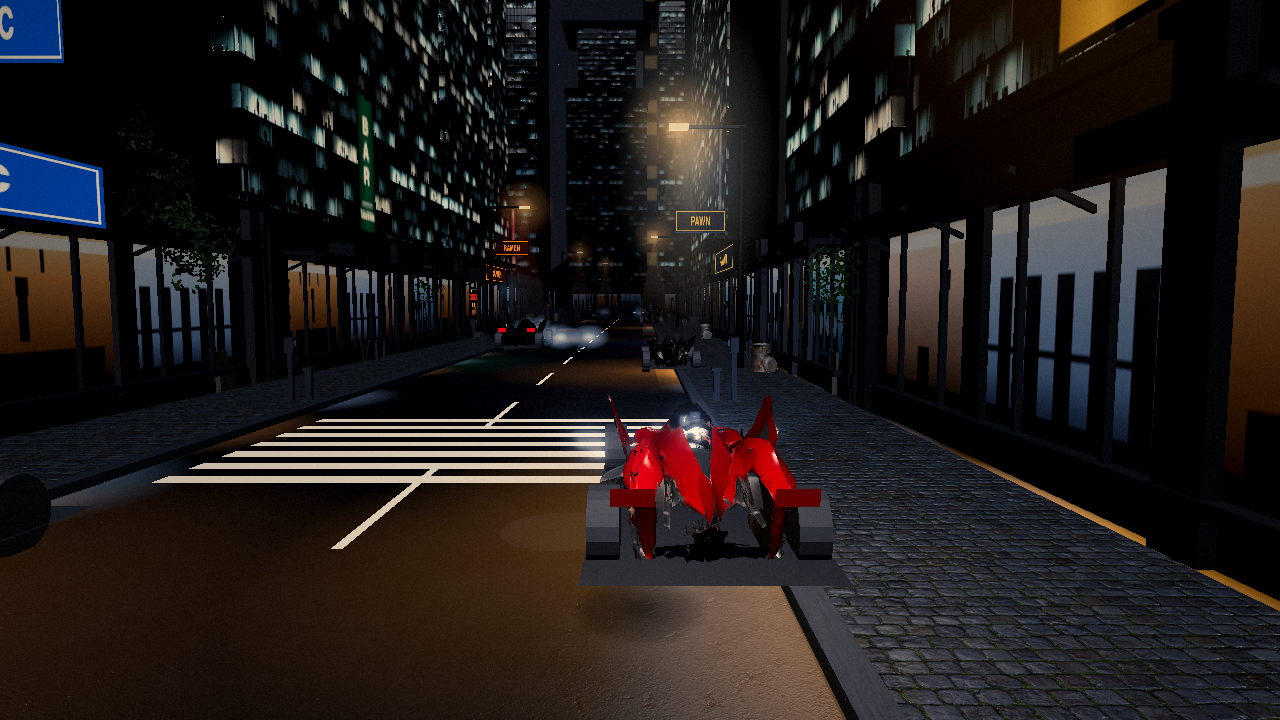
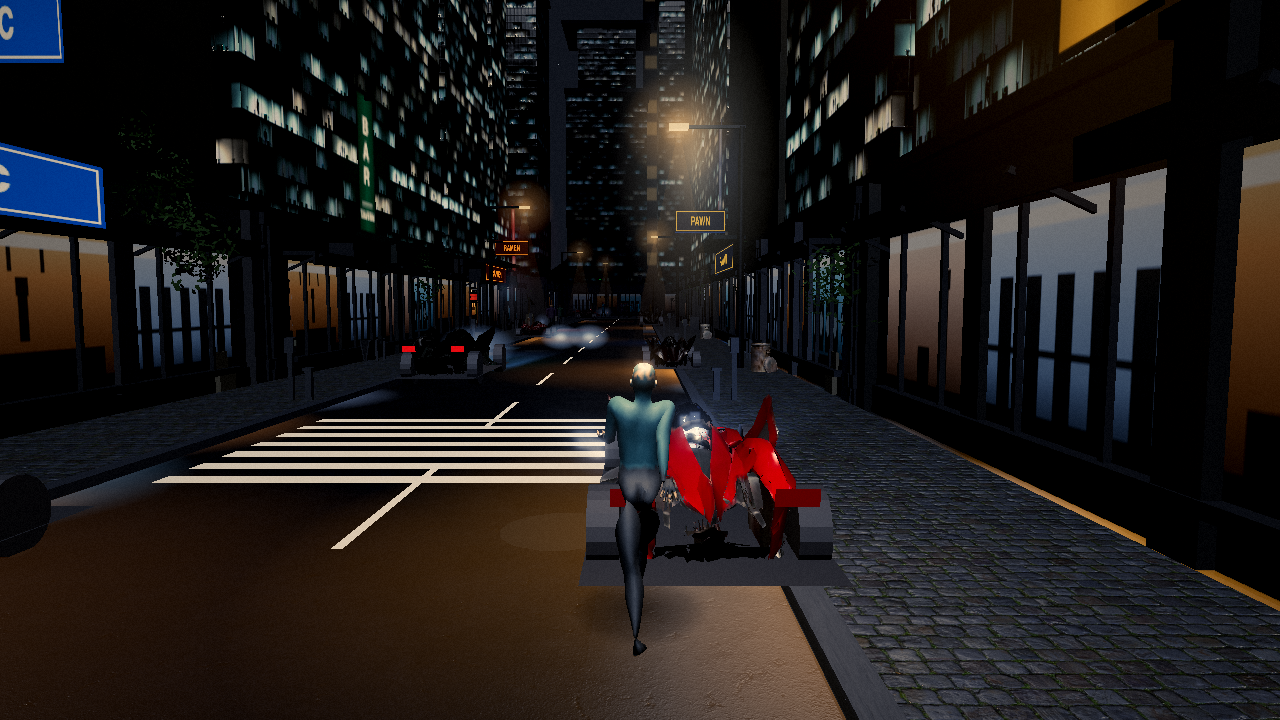
M2.F2b (M2-0, M2-2): the person is on screen
Task M2.F2b, filled by opencode-go/deepseek-v4.1-flash and checked by scripts/crew.mjs: task checks green, draws 112.

Changed region(s): [[0.4688, 0.4889, 0.5312, 0.9167], [0.3125, 0.4278, 0.4375, 0.55]]

diff --git a/src/game/probe.js b/src/game/probe.js
@@ -61,6 +61,25 @@ export function bindProbe(parts) {
     dark: () => [...parts.dark],
     cooldown: () => +hackCooldownLeft(street).toFixed(1),
     player: () => ({ x: +player.x.toFixed(2), y: +player.y.toFixed(2), z: +player.z.toFixed(2), mode: player.mode }),
+    // M2.F2b: the shipped person's world bounds and where it stands. `skinned`
+    // flips true once loadPersonAvatar has swapped the box figure for
+    // person.glb; min/max come from Box3.setFromObject on the posed skinned
+    // subtree, `player` is the drawn group, `onScreen` is the bound centre
+    // inside the camera's frustum (M2.F2's failure showed a body at the player
+    // nowhere in the frame, so the frame itself is part of the question).
+    avatarBox: () => {
+      const box = new THREE.Box3().setFromObject(parts.avatar.group, true);
+      const centre = box.getCenter(new THREE.Vector3()).project(parts.camera);
+      const round = (v) => +v.toFixed(3);
+      const at = parts.avatar.group.position;
+      return {
+        skinned: !!parts.avatar.skinned,
+        min: [round(box.min.x), round(box.min.y), round(box.min.z)],
+        max: [round(box.max.x), round(box.max.y), round(box.max.z)],
+        player: [round(at.x), round(at.y), round(at.z)],
+        onScreen: centre.z <= 1 && Math.abs(centre.x) <= 1 && Math.abs(centre.y) <= 1,
+      };
+    },
     car: () => ({ x: +heroCar.x.toFixed(2), y: +heroCar.y.toFixed(2), z: +heroCar.z.toFixed(2), speed: +heroCar.speed.toFixed(1) }),
     enter: () => parts.toggleVehicle(),
     profile: () => getProfile(),

diff --git a/src/render/player.js b/src/render/player.js
@@ -14,12 +14,18 @@ export function loadPersonAvatar(avatar) {
     const skinned = gltf.scene.getObjectByProperty('isSkinnedMesh', true);
     const clip = (gltf.animations ?? []).find((c) => /walk/i.test(c.name));
     if (!skinned || !clip) return;
-    avatar.mixer = new THREE.AnimationMixer(skinned);
+    // The armature, not the bare mesh: the clip's tracks bind bones by name and
+    // a bone outside the drawn tree never gets its world matrix updated, so the
+    // skin collapsed at the group origin. gltf.scene carries both the bones and
+    // the skinned mesh as one subtree, grounded at feet y=0.
+    avatar.mixer = new THREE.AnimationMixer(gltf.scene);
     avatar.mixer.clipAction(clip).play();
     for (const m of [...avatar.group.children]) avatar.group.remove(m);
     skinned.castShadow = true;
     skinned.userData.model = PERSON_MODEL;
-    avatar.group.add(skinned);
+    avatar.group.add(gltf.scene);
+    // M2.F2b: the box figure is gone and the GLB is in the group.
+    avatar.skinned = true;
   }).catch(() => {});
 }
 
